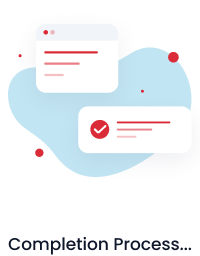
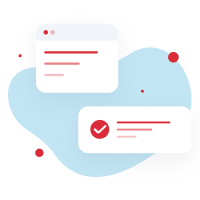
corrected dashboard name

diff --git a/lib/navbar_items/person/person_navbar.dart b/lib/navbar_items/person/person_navbar.dart
@@ -2,7 +2,10 @@ import 'package:bubuds/navbar_items/person/about_screen.dart';
 import 'package:bubuds/navbar_items/person/profile_screen.dart';
 import 'package:bubuds/utils/colors.dart';
 import 'package:bubuds/utils/typography.dart';
+import 'package:bubuds/widgets/dialogs/logout_dialog.dart';
+import 'package:bubuds/screens/signup_page.dart';
 import 'package:flutter/material.dart';
+import 'package:shared_preferences/shared_preferences.dart';
 
 class PersonScreenView extends StatelessWidget {
   final String userName;
@@ -33,7 +36,33 @@ class PersonScreenView extends StatelessWidget {
       'icon': Icons.info_outline,
       'route': const AboutScreen(),
     },
+    {
+      'title': 'Logout',
+      'icon': Icons.logout,
+      'textColor': AppColors.error,
+      'route': null,
+      'isLogout': true,
+    },
   ];
+
+  Future<void> _handleLogout(BuildContext context) async {
+    final bool? shouldLogout = await showDialog<bool>(
+      context: context,
+      builder: (context) => const LogoutDialog(),
+    );
+
+    if (shouldLogout == true && context.mounted) {
+      final prefs = await SharedPreferences.getInstance();
+      await prefs.clear(); // Clear all stored data
+
+      // Navigate to signup page and remove all previous routes
+      Navigator.pushAndRemoveUntil(
+        context,
+        MaterialPageRoute(builder: (context) => const SignUpDetails()),
+        (route) => false,
+      );
+    }
+  }
 
   @override
   Widget build(BuildContext context) {
@@ -100,18 +129,22 @@ class PersonScreenView extends StatelessWidget {
                       backgroundColor:
                           AppColors.secondaryLight.withOpacity(0.2),
                       child: Icon(item['icon'],
-                          color: AppColors.secondary, size: 24),
+                          color: item['textColor'] ?? AppColors.secondary,
+                          size: 24),
                     ),
                     title: Text(
                       item['title'],
                       style: AppTypography.bodyLarge.copyWith(
                         fontWeight: FontWeight.w500,
+                        color: item['textColor'],
                       ),
                     ),
                     trailing: const Icon(Icons.arrow_forward_ios,
                         color: AppColors.grey, size: 18),
                     onTap: () {
-                      if (item['route'] != null) {
+                      if (item['isLogout'] == true) {
+                        _handleLogout(context);
+                      } else if (item['route'] != null) {
                         Navigator.push(
                           context,
                           MaterialPageRoute(
@@ -124,62 +157,6 @@ class PersonScreenView extends StatelessWidget {
                 },
               ),
             ),
-            Padding(
-              padding: const EdgeInsets.all(16),
-              child: Container(
-                padding: const EdgeInsets.all(16),
-                decoration: BoxDecoration(
-                  color: AppColors.primary,
-                  borderRadius: BorderRadius.circular(10),
-                ),
-                child: Row(
-                  children: [
-                    const Icon(Icons.headset_mic,
-                        color: AppColors.white, size: 30),
-                    const SizedBox(width: 16),
-                    Text(
-                      "How can we help you?",
-                      style: AppTypography.bodyLarge.copyWith(
-                        color: AppColors.white,
-                      ),
-                    ),
-                  ],
-                ),
-              ),
-            ),
-            Padding(
-              padding: const EdgeInsets.symmetric(horizontal: 16, vertical: 8),
-              child: Row(
-                mainAxisAlignment: MainAxisAlignment.spaceBetween,
-                children: [
-                  Text(
-                    "Privacy Policy",
-                    style: AppTypography.bodySmall.copyWith(
-                      color: AppColors.greyDark,
-                    ),
-                  ),
-                  Text(
-                    "Terms",
-                    style: AppTypography.bodySmall.copyWith(
-                      color: AppColors.greyDark,
-                    ),
-                  ),
-                  Row(
-                    children: [
-                      Text(
-                        "English",
-                        style: AppTypography.bodySmall.copyWith(
-                          color: AppColors.greyDark,
-                        ),
-                      ),
-                      const Icon(Icons.keyboard_arrow_down,
-                          color: AppColors.grey, size: 20),
-                    ],
-                  ),
-                ],
-              ),
-            ),
-            const SizedBox(height: 8),
           ],
         ),
       ),

diff --git a/lib/screens/signup_page.dart b/lib/screens/signup_page.dart
@@ -1,5 +1,6 @@
 import 'package:bubuds/widgets/dialogs.dart';
 import 'package:flutter/material.dart';
+import 'package:shared_preferences/shared_preferences.dart';
 import '../utils/validators.dart';
 import 'onboarding_screen/choosing_subject.dart';
 
@@ -20,17 +21,28 @@ class _SignUpDetailsState extends State<SignUpDetails> {
   final _passwordController = TextEditingController();
   final _phoneController = TextEditingController();
 
-  void _navigateToChoosingSubject() {
+  Future<void> _saveUserData() async {
+    final prefs = await SharedPreferences.getInstance();
+    await prefs.setString('userName', _nameController.text);
+    await prefs.setString('userEmail', _emailController.text);
+    await prefs.setString('userPhone', _phoneController.text);
+    await prefs.setString('userPassword', _passwordController.text);
+  }
+
+  void _navigateToChoosingSubject() async {
     if (_formKey.currentState!.validate()) {
       if (_termsAccepted) {
-        Navigator.push(
-          context,
-          MaterialPageRoute(
-            builder: (context) => ChoosingSubjectView(
-              userName: _nameController.text,
+        await _saveUserData();
+        if (mounted) {
+          Navigator.push(
+            context,
+            MaterialPageRoute(
+              builder: (context) => ChoosingSubjectView(
+                userName: _nameController.text,
+              ),
             ),
-          ),
-        );
+          );
+        }
       } else {
         DialogUtils.showErrorDialog(
           context,

diff --git a/lib/navbar_items/dashboard/dashboard_navbar.dart b/lib/navbar_items/dashboard/dashboard_navbar.dart
@@ -6,10 +6,12 @@ import '../../screens/subject_screen/subject_screen.dart';
 
 class DashboardNavbarView extends StatelessWidget {
   final List<bool> selectedTopics;
+  final String userName;
 
   const DashboardNavbarView({
     super.key,
     required this.selectedTopics,
+    required this.userName,
   });
 
   @override
@@ -28,9 +30,9 @@ class DashboardNavbarView extends StatelessWidget {
                   Column(
                     crossAxisAlignment: CrossAxisAlignment.start,
                     children: [
-                      const Text(
-                        'Hi, Jenny Wilson',
-                        style: TextStyle(
+                      Text(
+                        'Hi, $userName',
+                        style: const TextStyle(
                           fontSize: 28,
                           fontWeight: FontWeight.bold,
                         ),

diff --git a/lib/screens/home_screenview.dart b/lib/screens/home_screenview.dart
@@ -27,7 +27,10 @@ class _MyHomeScreenViewState extends State<MyHomeScreenView> {
   void initState() {
     super.initState();
     _pages = [
-      DashboardNavbarView(selectedTopics: widget.selectedTopics),
+      DashboardNavbarView(
+        selectedTopics: widget.selectedTopics,
+        userName: widget.userName,
+      ),
       const ScheduleNavbarView(),
       const MenuNavigationView(),
       PersonScreenView(userName: widget.userName),

diff --git a/lib/screens/onboarding_screen/choosing_subject.dart b/lib/screens/onboarding_screen/choosing_subject.dart
@@ -108,7 +108,7 @@ class _ChoosingSubjectViewState extends State<ChoosingSubjectView> {
           crossAxisAlignment: CrossAxisAlignment.start,
           children: [
             Text(
-              'Choose your topic interest',
+              'Choose your Courses',
               style: AppTypography.h2,
             ),
             const SizedBox(height: 8),
